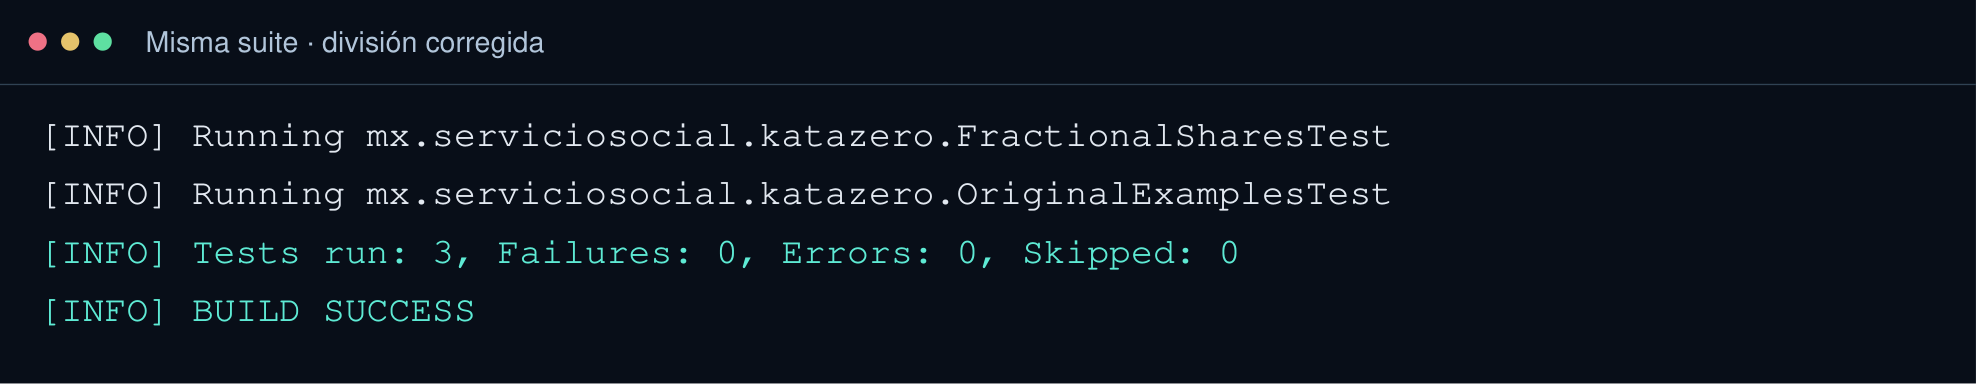
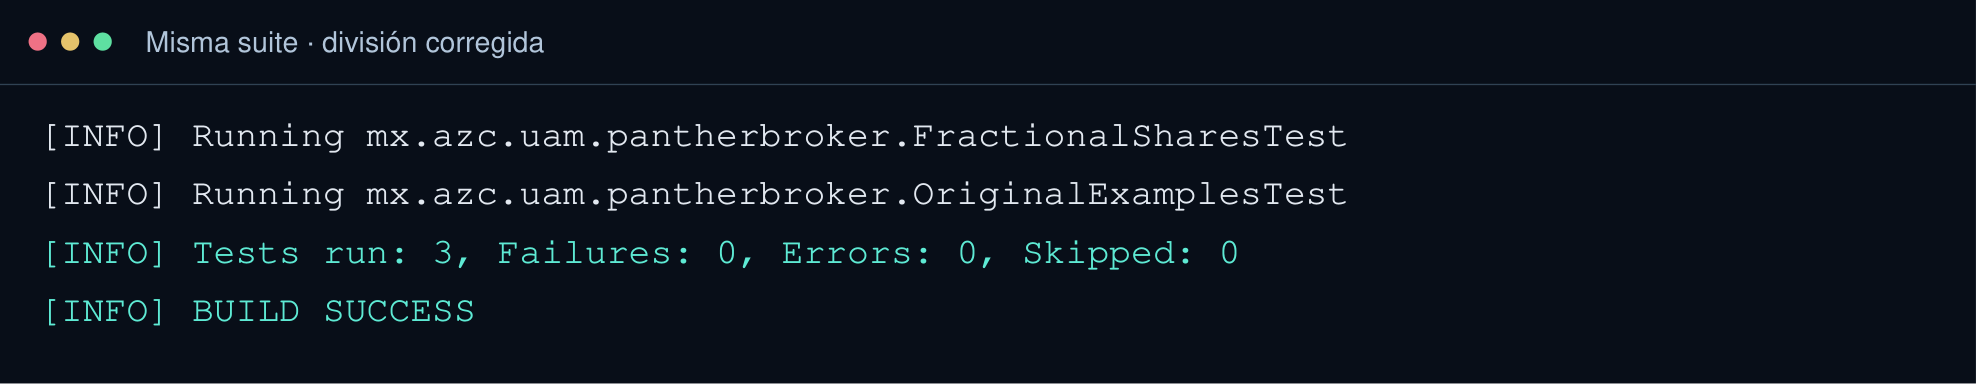
refactor: adopta paquete mx.azc.uam.pantherbroker

Changed region(s): [[0.2161, 0.3125, 0.71, 0.4062], [0.2161, 0.4688, 0.71, 0.5312]]

diff --git a/scripts/verify-kata-zero.py b/scripts/verify-kata-zero.py
@@ -30,7 +30,7 @@ if args.captures or args.render_only:
 
 wrapper = str(ROOT / 'mvnw')
 stages = [ROOT / 'kata-zero' / p for p in ['before', 'after/01-naive-fractions', 'after/02-first-test']]
-source = Path('src/main/java/mx/serviciosocial/katazero')
+source = Path('src/main/java/mx/azc/uam/pantherbroker')
 records = {}
 
 
@@ -42,7 +42,7 @@ def maven(project, *goals, expected=0):
 
 
 def console(project, input_text='2\n0\n'):
-    result = subprocess.run([java, '-cp', str(project / 'target/classes'), 'mx.serviciosocial.katazero.Main'],
+    result = subprocess.run([java, '-cp', str(project / 'target/classes'), 'mx.azc.uam.pantherbroker.Main'],
                             input=input_text, env=env, capture_output=True, text=True, check=True, timeout=10)
     assert not result.stderr, result.stderr
     return result.stdout
@@ -55,7 +55,7 @@ def plan_excerpt(output):
 def test_excerpt(output):
     clean = re.sub(r'\x1b\[[0-9;]*m', '', output)
     lines = clean.splitlines()
-    running = [line for line in lines if 'Running mx.serviciosocial' in line]
+    running = [line for line in lines if 'Running mx.azc.uam.pantherbroker' in line]
     failures = [line for line in lines if line.startswith('org.opentest4j.AssertionFailedError:')]
     summary = [line for line in lines if 'Tests run:' in line and 'Time elapsed:' not in line]
     result = [line for line in lines if 'BUILD SUCCESS' in line or 'BUILD FAILURE' in line]

diff --git a/kata-zero/after/01-naive-fractions/src/main/java/mx/azc/uam/pantherbroker/Main.java b/kata-zero/after/01-naive-fractions/src/main/java/mx/azc/uam/pantherbroker/Main.java
@@ -1,4 +1,4 @@
-package mx.serviciosocial.katazero;
+package mx.azc.uam.pantherbroker;
 
 import java.io.BufferedReader;
 import java.io.InputStreamReader;
@@ -25,8 +25,9 @@ public class Main {
                 System.out.println("Valor total: " + total + " USD");
                 System.out.println("Plan sugerido (no modifica la cuenta):");
                 for (int i = 0; i < symbols.length; i++) {
-                    double difference = RebalanceCalculator.quantityToTrade(
-                            total, percentages[i], prices[i], quantities[i]);
+                    int targetValue = total * percentages[i] / 100;
+                    double targetShares = targetValue / prices[i];
+                    double difference = targetShares - quantities[i];
                     if (difference != 0) {
                         System.out.println((difference < 0 ? "VENDER " : "COMPRAR ")
                                 + symbols[i] + " " + Math.abs(difference) + " acciones");

diff --git a/kata-zero/after/02-first-test/src/main/java/mx/azc/uam/pantherbroker/Main.java b/kata-zero/after/02-first-test/src/main/java/mx/azc/uam/pantherbroker/Main.java
@@ -1,4 +1,4 @@
-package mx.serviciosocial.katazero;
+package mx.azc.uam.pantherbroker;
 
 import java.io.BufferedReader;
 import java.io.InputStreamReader;
@@ -25,9 +25,8 @@ public class Main {
                 System.out.println("Valor total: " + total + " USD");
                 System.out.println("Plan sugerido (no modifica la cuenta):");
                 for (int i = 0; i < symbols.length; i++) {
-                    int targetValue = total * percentages[i] / 100;
-                    double targetShares = targetValue / prices[i];
-                    double difference = targetShares - quantities[i];
+                    double difference = RebalanceCalculator.quantityToTrade(
+                            total, percentages[i], prices[i], quantities[i]);
                     if (difference != 0) {
                         System.out.println((difference < 0 ? "VENDER " : "COMPRAR ")
                                 + symbols[i] + " " + Math.abs(difference) + " acciones");

diff --git a/kata-zero/after/02-first-test/src/main/java/mx/azc/uam/pantherbroker/RebalanceCalculator.java b/kata-zero/after/02-first-test/src/main/java/mx/azc/uam/pantherbroker/RebalanceCalculator.java
@@ -1,4 +1,4 @@
-package mx.serviciosocial.katazero;
+package mx.azc.uam.pantherbroker;
 
 final class RebalanceCalculator {
     static double quantityToTrade(int totalValue, int targetPercent,

diff --git a/kata-zero/after/02-first-test/src/test/java/mx/azc/uam/pantherbroker/FractionalSharesTest.java b/kata-zero/after/02-first-test/src/test/java/mx/azc/uam/pantherbroker/FractionalSharesTest.java
@@ -1,4 +1,4 @@
-package mx.serviciosocial.katazero;
+package mx.azc.uam.pantherbroker;
 
 import org.junit.jupiter.api.DisplayName;
 import org.junit.jupiter.api.Test;

diff --git a/kata-zero/after/02-first-test/src/test/java/mx/azc/uam/pantherbroker/OriginalExamplesTest.java b/kata-zero/after/02-first-test/src/test/java/mx/azc/uam/pantherbroker/OriginalExamplesTest.java
@@ -1,4 +1,4 @@
-package mx.serviciosocial.katazero;
+package mx.azc.uam.pantherbroker;
 
 import org.junit.jupiter.api.DisplayName;
 import org.junit.jupiter.api.Test;

diff --git a/kata-zero/before/src/main/java/mx/azc/uam/pantherbroker/Main.java b/kata-zero/before/src/main/java/mx/azc/uam/pantherbroker/Main.java
@@ -1,4 +1,4 @@
-package mx.serviciosocial.katazero;
+package mx.azc.uam.pantherbroker;
 
 import java.io.BufferedReader;
 import java.io.InputStreamReader;

diff --git a/DECISIONS.md b/DECISIONS.md
@@ -237,3 +237,9 @@ Registrar fecha, origen, decisión, alternativas y consecuencias. Distinguir req
 **Origen:** el usuario elige Panther Broker como referencia a la UAM Azcapotzalco.
 
 **Decisión:** sustituir la marca Fracción por Panther Broker en el temario vigente, presentación, documentación operativa y encabezados del programa. No se cambia el problema, los números ni las expectativas de las pruebas. Conservar las decisiones históricas como antecedentes y no incorporar logotipos institucionales ni atribuir un aval de la UAM.
+
+## D030 — Paquete de Panther Broker · 2026-10-31
+
+**Origen:** el usuario solicita mx.azc.uam.pantherbroker.
+
+**Decisión:** adoptar ese paquete en las tres etapas de Kata Zero, mover fuentes y pruebas a su ruta correspondiente y actualizar mainClass, groupId de Maven y verificación reproducible. No modificar las etiquetas históricas.
